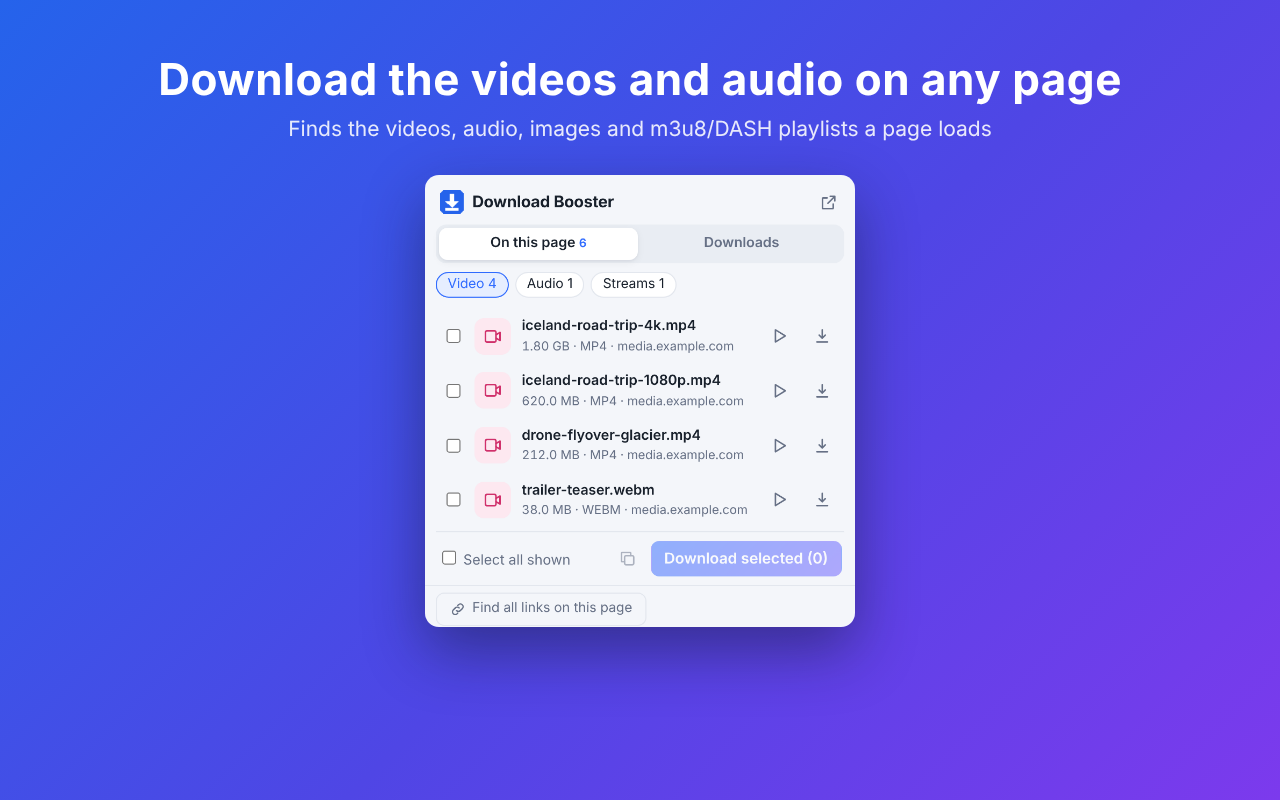
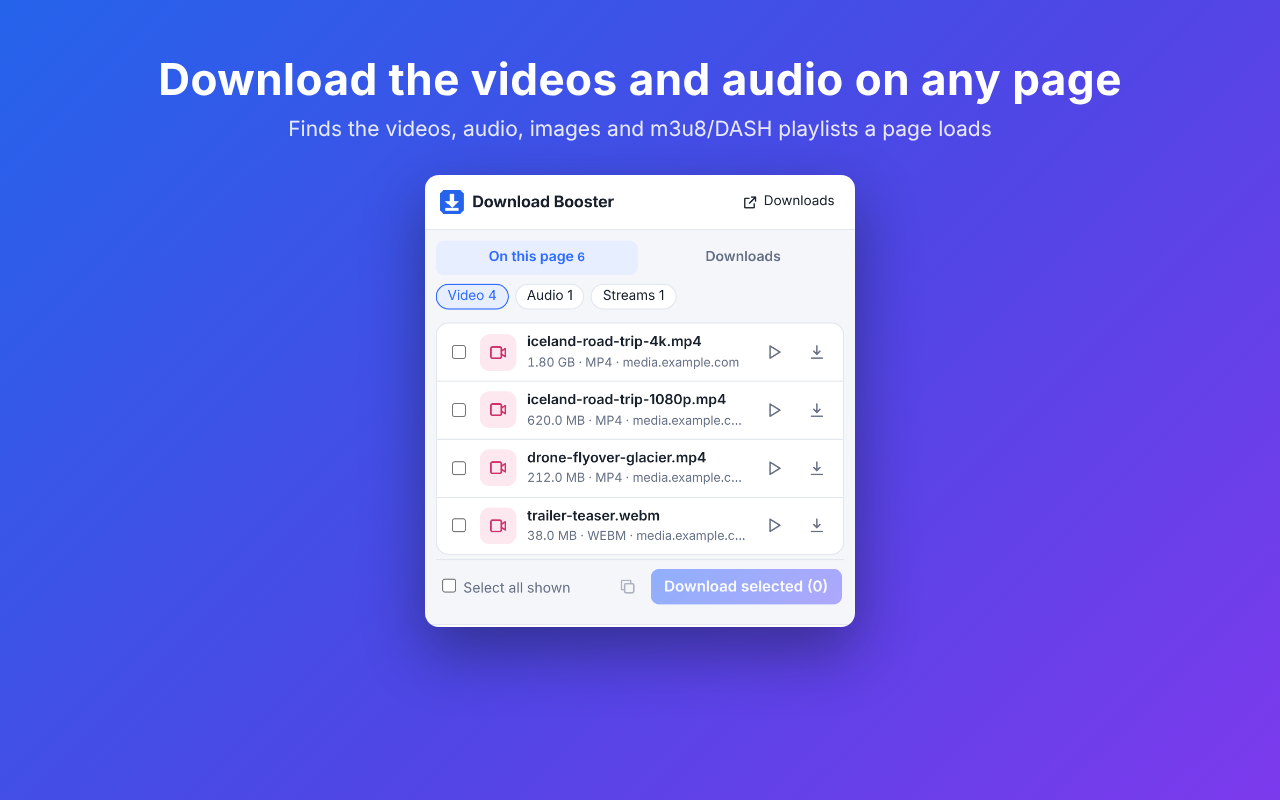
Popup in the manager's style; store screenshots and listing for 1.1.0
- Popup: header bar with a labelled link to the manager, soft tabs, lists
  in a bordered card with dividers, status pills on downloads, file type
  icons shared with the manager
- Manager table drops the date, then the size column when its area is
  narrow (container queries), so names keep their room
- Store screenshots regenerated (zh_CN, en) with new captions; listing
  text and READMEs describe the new manager

diff --git a/src/popup.css b/src/popup.css
@@ -10,7 +10,22 @@ body {
   display: flex;
   align-items: center;
   gap: 8px;
-  padding: 10px 10px 6px 14px;
+  padding: 10px 10px 10px 14px;
+  background: var(--card);
+  border-bottom: 1px solid var(--border);
+}
+#open-manager {
+  width: auto;
+  gap: 5px;
+  padding: 0 8px;
+  font-size: 12.5px;
+  color: var(--text);
+  display: inline-flex;
+  align-items: center;
+}
+#open-manager svg {
+  width: 15px;
+  height: 15px;
 }
 .brand {
   font-weight: 700;
@@ -26,24 +41,24 @@ body {
 .tabs {
   display: flex;
   gap: 4px;
-  margin: 0 10px;
-  padding: 3px;
-  background: var(--track);
-  border-radius: 10px;
+  margin: 10px 10px 0;
 }
 .tabs button {
   flex: 1;
   border: none;
   background: transparent;
   color: var(--muted);
-  padding: 5px 8px;
+  padding: 6px 8px;
   font-weight: 600;
   font-size: 13px;
+  border-radius: 8px;
+}
+.tabs button:hover:not(:disabled) {
+  background: var(--raised);
 }
 .tabs button[aria-selected='true'] {
-  background: var(--card);
-  color: var(--text);
-  box-shadow: var(--shadow);
+  background: var(--accent-soft);
+  color: var(--accent);
 }
 .count {
   font-weight: 600;
@@ -72,11 +87,14 @@ body {
 }
 .list {
   list-style: none;
-  margin: 6px 0 0;
+  margin: 8px 0 0;
   padding: 0;
   overflow-y: auto;
   min-height: 0;
   flex: 1;
+  background: var(--card);
+  border: 1px solid var(--border);
+  border-radius: var(--radius);
 }
 .list:empty {
   display: none;
@@ -85,12 +103,19 @@ body {
   display: flex;
   align-items: center;
   gap: 10px;
-  padding: 7px 6px;
-  border-radius: 10px;
+  padding: 8px 10px;
+  border-bottom: 1px solid var(--border);
+}
+.list li:last-child {
+  border-bottom: 0;
 }
 .list li:hover {
-  background: var(--card);
-  box-shadow: var(--shadow);
+  background: var(--raised);
+}
+.list .status {
+  font-size: 10.5px;
+  padding: 0 6px;
+  margin-right: 6px;
 }
 .list .info {
   flex: 1;
@@ -122,9 +147,9 @@ body {
   background: var(--track);
 }
 .mini-bar {
-  height: 4px;
-  margin: 4px 0 2px;
-  border-radius: 2px;
+  height: 5px;
+  margin: 5px 0 3px;
+  border-radius: 3px;
   background: var(--track);
   overflow: hidden;
 }
@@ -175,7 +200,9 @@ li[data-s='error'] .mini-bar > i {
   display: flex;
   align-items: center;
   gap: 8px;
-  padding: 6px 10px 10px;
+  margin-top: 10px;
+  padding: 6px 10px;
+  background: var(--card);
   border-top: 1px solid var(--border);
 }
 .foot button {
@@ -201,6 +228,11 @@ li[data-s='error'] .mini-bar > i {
   gap: 8px;
   align-content: start;
   padding: 2px;
+  background: transparent;
+  border: 0;
+}
+.list.grid li.tile {
+  border-bottom: 0;
 }
 .list.grid li.tile {
   position: relative;

diff --git a/src/popup.js b/src/popup.js
@@ -3,6 +3,7 @@
 
 import { ICONS } from './icons.js';
 import { t, localize, engine, addUrls, bytes, speed, duration, statusText } from './client.js';
+import { taskKind } from './tasks-filter.js';
 import { variantLabel, audioFor } from './hls.js';
 import { parseManifest } from './dash.js';
 
@@ -21,6 +22,7 @@ const state = {
 };
 
 $('#open-manager').innerHTML = ICONS.open;
+$('#open-manager').append(t('managerTitle'));
 $('#sniff-links').innerHTML = ICONS.link;
 $('#sniff-links').append(t('sniffLinks'));
 
@@ -472,13 +474,7 @@ function fraction(task) {
 function taskRow(task) {
   const li = document.createElement('li');
   li.dataset.s = task.status;
-  const kind = /\.(mp4|mkv|webm|mov|avi|flv|m4v|ts)$/i.test(task.filename || '')
-    ? 'video'
-    : /\.(mp3|m4a|flac|wav|ogg|opus|aac)$/i.test(task.filename || '')
-      ? 'audio'
-      : /\.(jpe?g|png|gif|webp|avif|bmp|svg)$/i.test(task.filename || '')
-        ? 'image'
-        : 'other';
+  const kind = taskKind(task);
   const ft = document.createElement('span');
   ft.className = 'ftype';
   ft.dataset.kind = kind;
@@ -498,12 +494,17 @@ function taskRow(task) {
   bar.append(fill);
   const sub = document.createElement('span');
   sub.className = 'sub';
-  const parts = [statusText(task)];
+  const pill = document.createElement('span');
+  pill.className = 'status';
+  pill.dataset.s = task.status;
+  pill.textContent = statusText(task);
+  pill.title = task.error?.message || pill.textContent;
+  const parts = [];
   if (task.size) parts.push(`${bytes(task.status === 'completed' ? task.size : task.downloaded)} / ${bytes(task.size)}`);
   else if (task.hls && task.status !== 'completed') parts.push(bytes(task.downloaded), t('pieces', [`${task.hls.done}/${task.hls.total}`]));
   if (task.status === 'downloading') parts.push(speed(task.speed));
   if (task.status === 'completed' && task.savedTo) parts.push(t('savedTo', [task.savedTo]));
-  sub.textContent = parts.join(' · ');
+  sub.append(pill, parts.join(' · '));
   info.append(name, bar, sub);
 
   const act = document.createElement('button');

diff --git a/src/manager.css b/src/manager.css
@@ -435,13 +435,24 @@ body.app {
 }
 
 /* Narrow windows: the sidebar becomes a row of tabs, fewer columns. */
-@media (max-width: 860px) {
+.content {
+  container-type: inline-size;
+}
+@container (max-width: 980px) {
   .thead,
   .task {
-    grid-template-columns: 30px minmax(0, 1fr) 150px 90px 120px;
+    grid-template-columns: 34px minmax(0, 1fr) 80px 150px 96px 120px;
   }
-  .c-size,
   .c-date {
+    display: none !important;
+  }
+}
+@container (max-width: 760px) {
+  .thead,
+  .task {
+    grid-template-columns: 30px minmax(0, 1fr) 140px 90px 110px;
+  }
+  .c-size {
     display: none !important;
   }
 }

diff --git a/docs/store/LISTING.md b/docs/store/LISTING.md
@@ -50,7 +50,8 @@ YOUR WAY
 • Save straight into a folder you pick, sorted into subfolders by file type if you like
 • Numbered series from one link, such as img[001-120].jpg
 • Alt+Shift+D opens the download manager
-• Search and filter your downloads; open a finished file, copy its link or download it again
+• A clear download manager: downloads sorted by state and file type, columns you can sort, several at once with a tick, a right-click menu
+• Search your downloads; open a finished file, copy its link or download it again
 • Optional notification when a download finishes or fails
 • Batch download every link on a page, with filters and renaming
 • English and Chinese
@@ -92,7 +93,8 @@ Not supported: DRM-protected video, live streams, and YouTube.
 • 可按文件类型自动分到子文件夹
 • 一个链接按规律批量生成，如 img[001-120].jpg
 • Alt+Shift+D 打开下载管理
-• 下载任务可搜索、按状态和类型筛选；完成的文件可直接打开、复制链接、重新下载
+• 清爽的下载管理：按状态和文件类型分类，可排序，勾选多个一起操作，右键菜单
+• 下载任务可搜索；完成的文件可直接打开、复制链接、重新下载
 • 可选：下载完成或失败时弹出通知
 • 直接保存到你选择的文件夹
 • 批量下载网页上的所有链接，可以筛选和批量改名

diff --git a/README.zh-CN.md b/README.zh-CN.md
@@ -37,7 +37,8 @@
 - 自动接管超过指定大小的浏览器下载，也可以只下你主动发给它的
 - 全局限速，设置同时下载的任务数
 - 直接写进你选的文件夹，可按文件类型分到子文件夹（视频、压缩包……）
-- 下载任务可以搜索，按状态或文件类型筛选；完成的文件可以直接打开、复制链接或重新下载
+- 下载管理页有按状态和文件类型分类的侧栏，列可排序，可多选批量操作，有右键菜单
+- 下载任务可以搜索；完成的文件可以直接打开、复制链接或重新下载
 - 可选：下载完成或失败时弹出通知
 - 收集网页上的所有链接，按类型筛选，批量下载并按规则改名
 - 一个链接按规律批量生成：`https://example.com/img[001-120].jpg` 会添加 120 个下载

diff --git a/README.md b/README.md
@@ -37,7 +37,8 @@
 - Takes over browser downloads above a size you choose, or only the ones you send to it
 - Global speed limit and number of downloads at once
 - Save straight into a folder you pick, optionally sorted into subfolders by file type (Videos, Archives, ...)
-- Search your downloads and filter them by state or file type; open a finished file, copy its link or download it again
+- A download manager with a sidebar by state and file type, sortable columns, multi-select and a right-click menu
+- Search your downloads; open a finished file, copy its link or download it again
 - Optional notification when a download finishes or fails
 - Collect every link on a page, filter by type, download in bulk and rename by a pattern
 - Numbered series from one link: `https://example.com/img[001-120].jpg` adds 120 downloads
